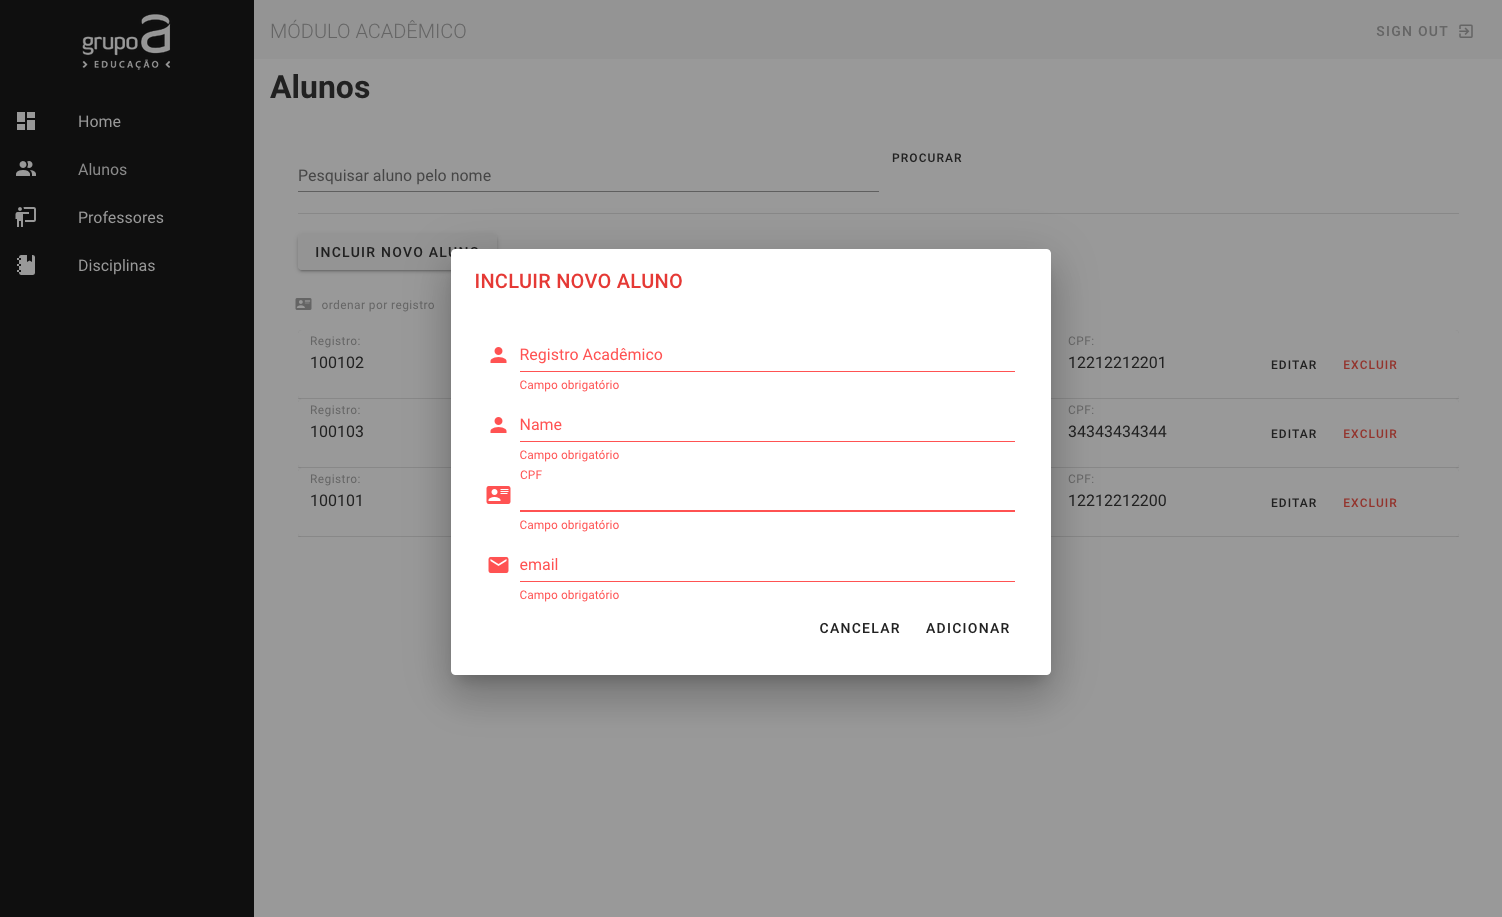
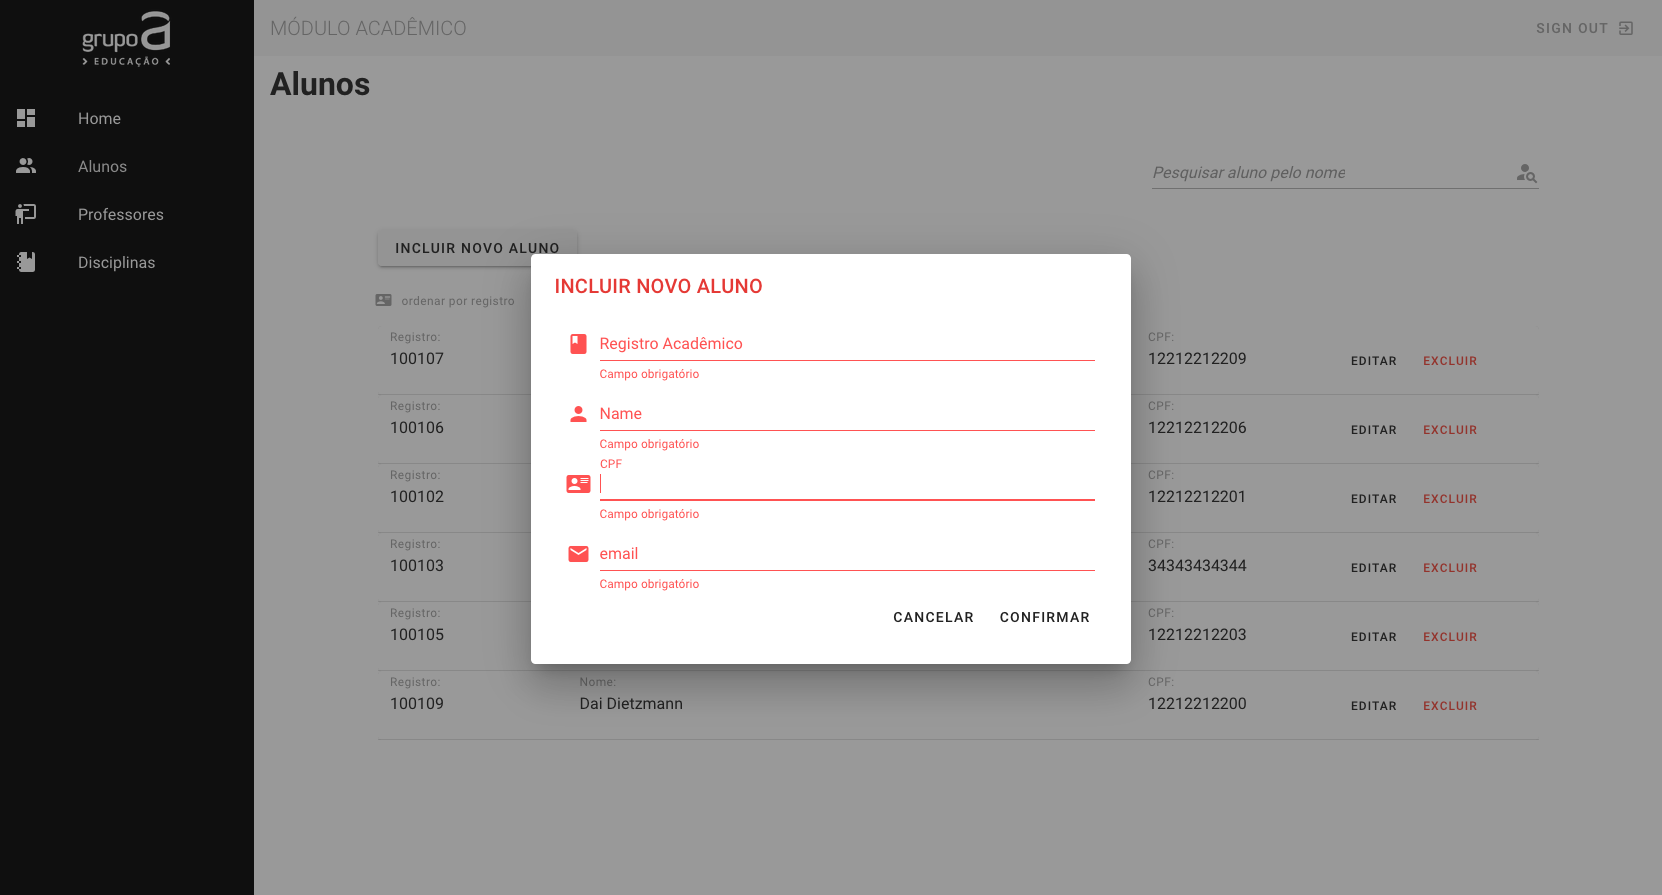
corrected bugs and updated style

diff --git a/src/components/EditarAluno.vue b/src/components/EditarAluno.vue
@@ -9,10 +9,10 @@
 				<v-text-field label="Nome" color="black" :rules="nameRules" v-model="name" prepend-icon="mdi-account">
 					
 				</v-text-field>
-				<v-text-field disabled label="CPF (não editável)" v-model="cpf" prepend-icon="mdi-account">
+				<v-text-field disabled label="CPF (não editável)" v-model="cpf" prepend-icon="mdi-card-account-details">
 					
 				</v-text-field>
-				<v-text-field label="Email" color="black" :rules="emailRules" v-model="email" prepend-icon="mdi-account">
+				<v-text-field label="Email" color="black" :rules="emailRules" v-model="email" prepend-icon="mdi-email">
 					texte
 				</v-text-field>
 			</v-form>
@@ -65,10 +65,10 @@ export default {
 					email: this.email
 				}).then(() => {
 					this.dialog = false;
-					location.reload()
+					// location.reload()
 				})
-				}
 
+				}
 		},
 		cancel() {
 			this.dialog = false;

diff --git a/src/views/Alunos.vue b/src/views/Alunos.vue
@@ -120,6 +120,22 @@ export default {
 					})
 				}
 			})
+			changes.forEach(change => {
+				if (change.type === 'modified'){
+					this.data.push({
+						...change.doc.data(),
+						id: change.doc.id
+					})
+				}
+			})
+			changes.forEach(change => {
+				if (change.type === 'deleted'){
+					this.data.push({
+						...change.doc.data(),
+						id: change.doc.id
+					})
+				}
+			})
 		})
 	}
 }

diff --git a/src/components/ExcluirAluno.vue b/src/components/ExcluirAluno.vue
@@ -26,6 +26,7 @@ export default {
 	},
 	data() {
 		return {
+			data: [],
 			dialog: false,
 		}
 	},
@@ -35,7 +36,7 @@ export default {
 			.then(() => {
 				console.log(this.studentId)
 				this.dialog = false
-				location.reload()
+				// location.reload()
 			})
 		},
 	},
